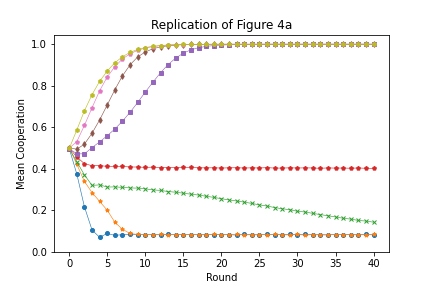
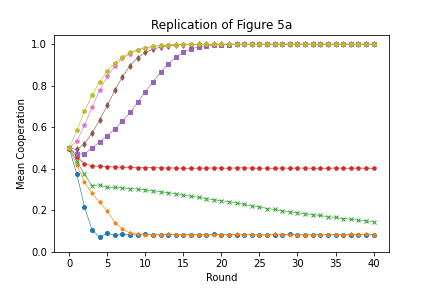
reran figs

diff --git a/experiment_home.py b/experiment_home.py
@@ -23,14 +23,14 @@ import matplotlib.pyplot as plt
 
 ## Control board
 
-run = 1
+run = 0
 CI = False #true is when assume normal distribution, false is empirical quantiles
 
 MeansOnly = True
 
 save = 0 #save the figure
 
-filename = 'TAfig4b'
+filename = 'TAfig4a'
 
 parameters = {
     'seed': 42,
@@ -38,7 +38,7 @@ parameters = {
     'agent_n': 500,
     'phi':ap.Values(1.2, 1.8, 2.0, 2.2, 2.4,2.6, 3.0,4.0), #multiplier for common contributions
     'graph_m' : 6,
-    'graph_alpha': 1.0,
+    'graph_alpha': 0.0,
     'graph_p':0.05,
     'gtype': 'TAG',
     'atype': AT,
@@ -122,7 +122,7 @@ plt.yticks(ticks = [0,0.2,0.4,0.6,0.8,1.0])
 
 #plt.rcParams["figure.figsize"] = (10,10)
 
-plt.title(f"Replication of Figure 4b") #"; N: {parameters['agent_n']} "\
+plt.title(f"Replication of Figure 5a") #"; N: {parameters['agent_n']} "\
           #f"k: {parameters['graph_m']}, T: {reps}, alpha: {parameters['graph_alpha']} ")
     
 '''   
